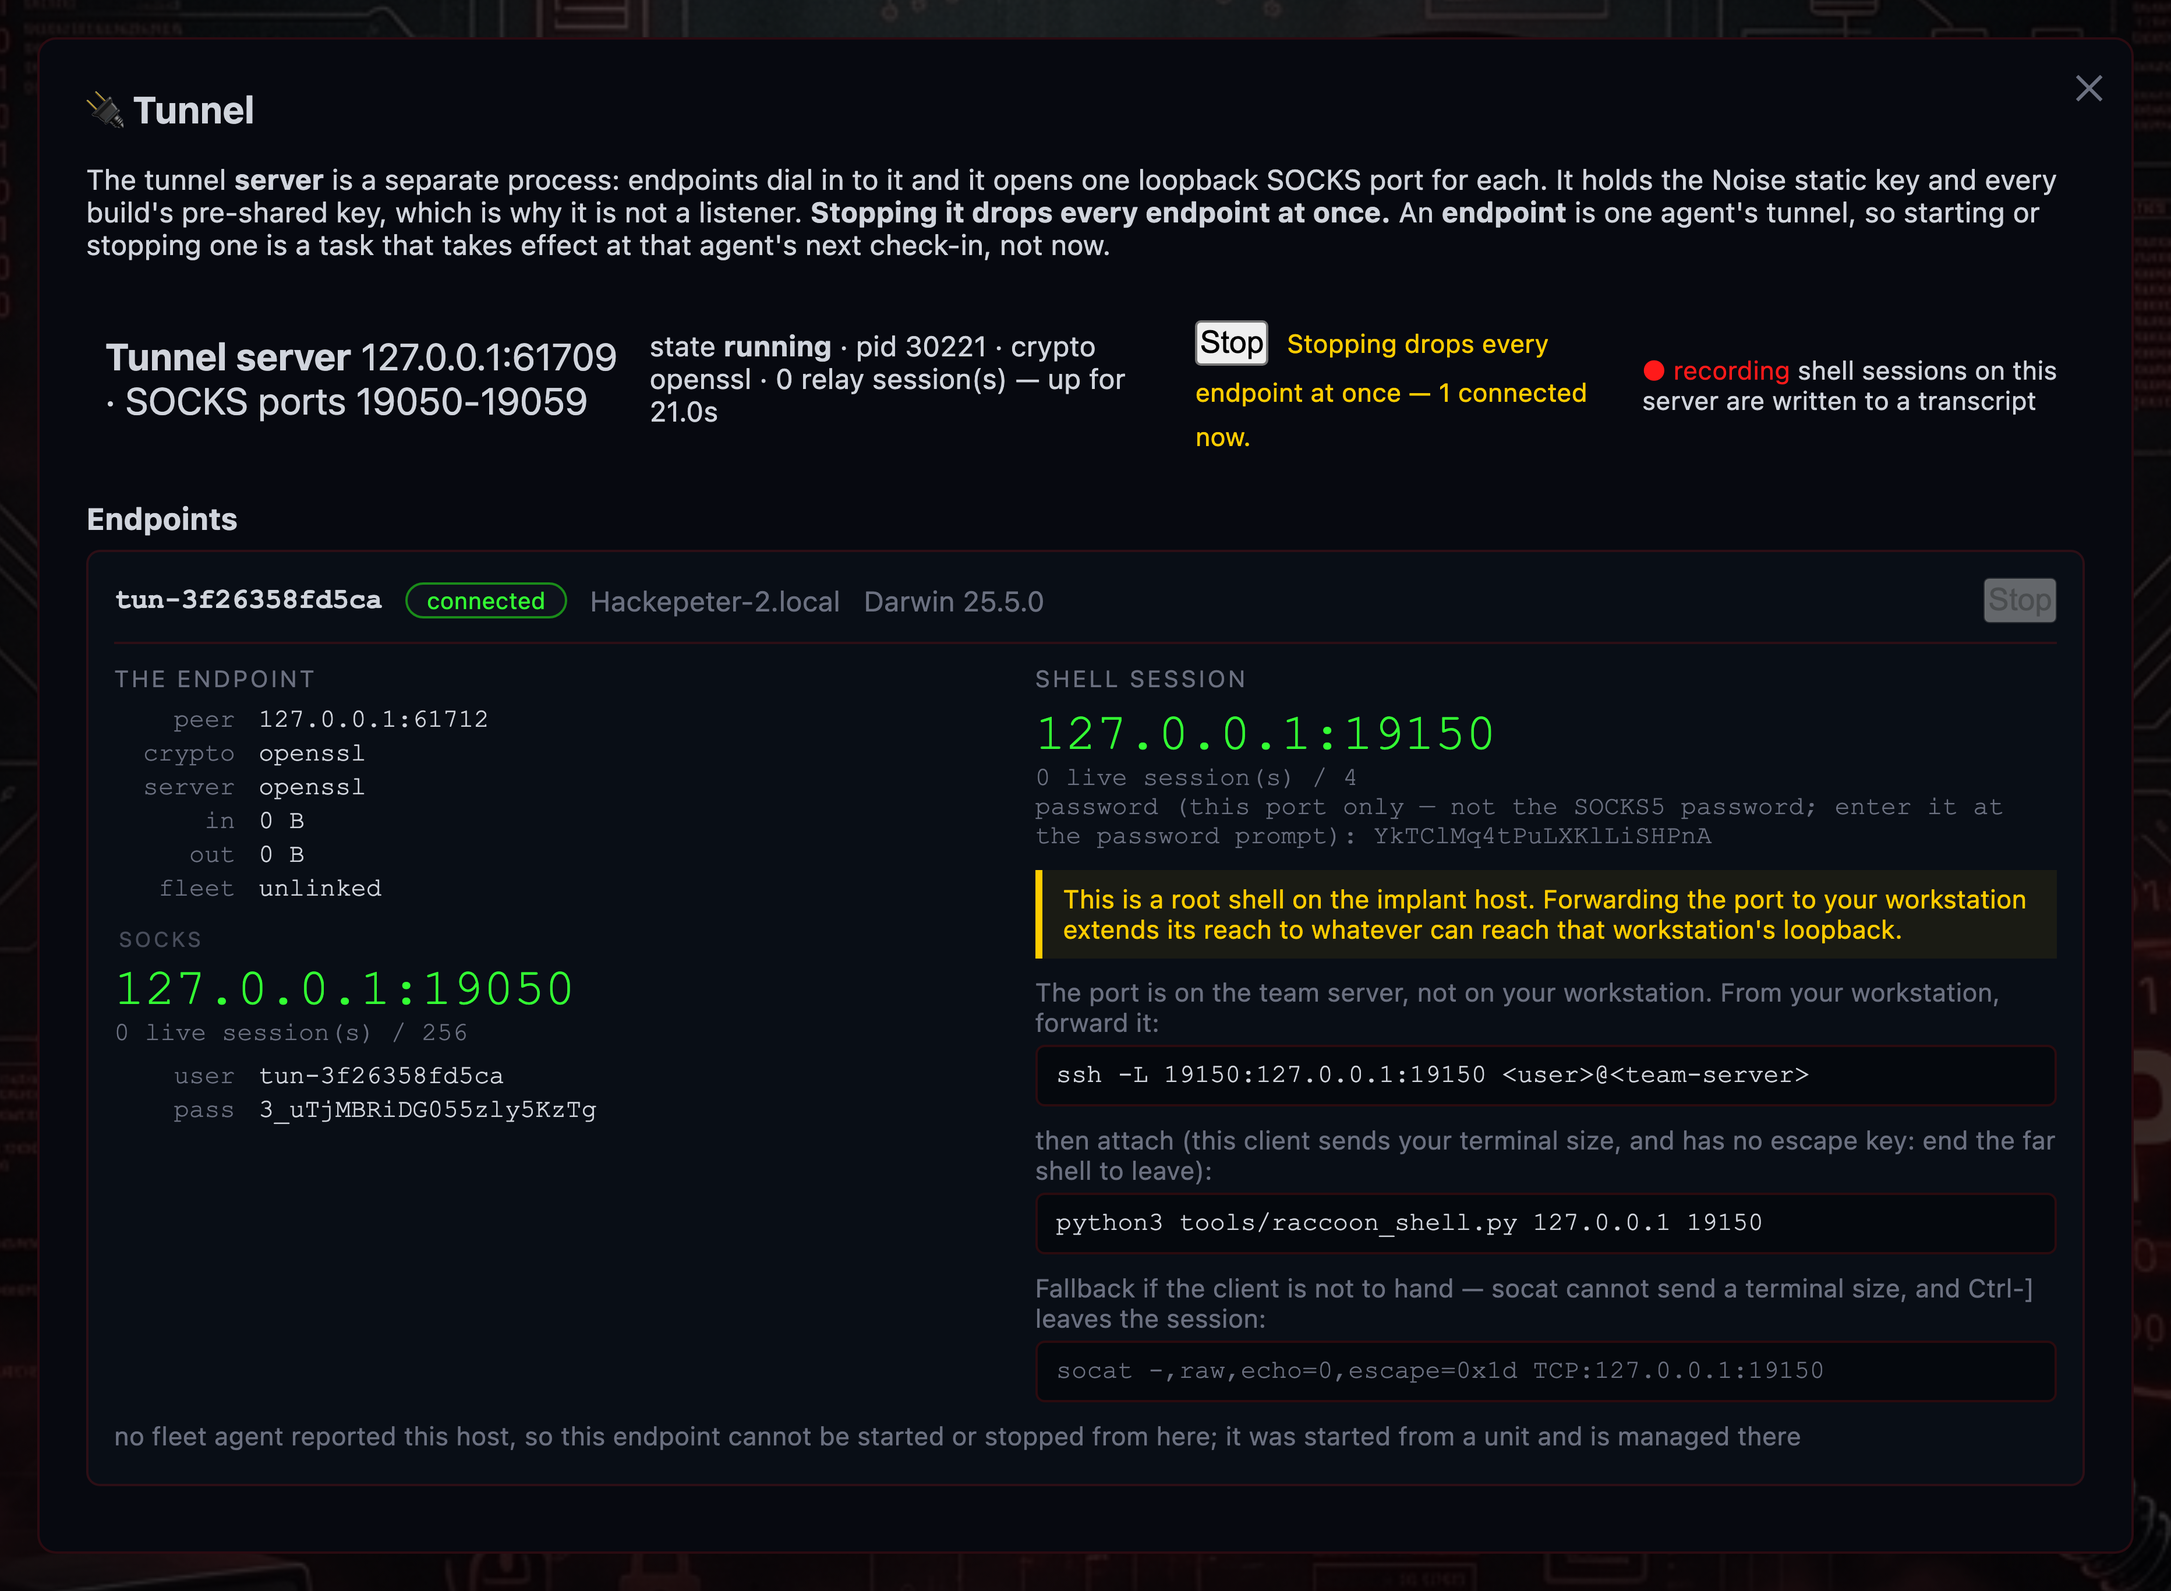
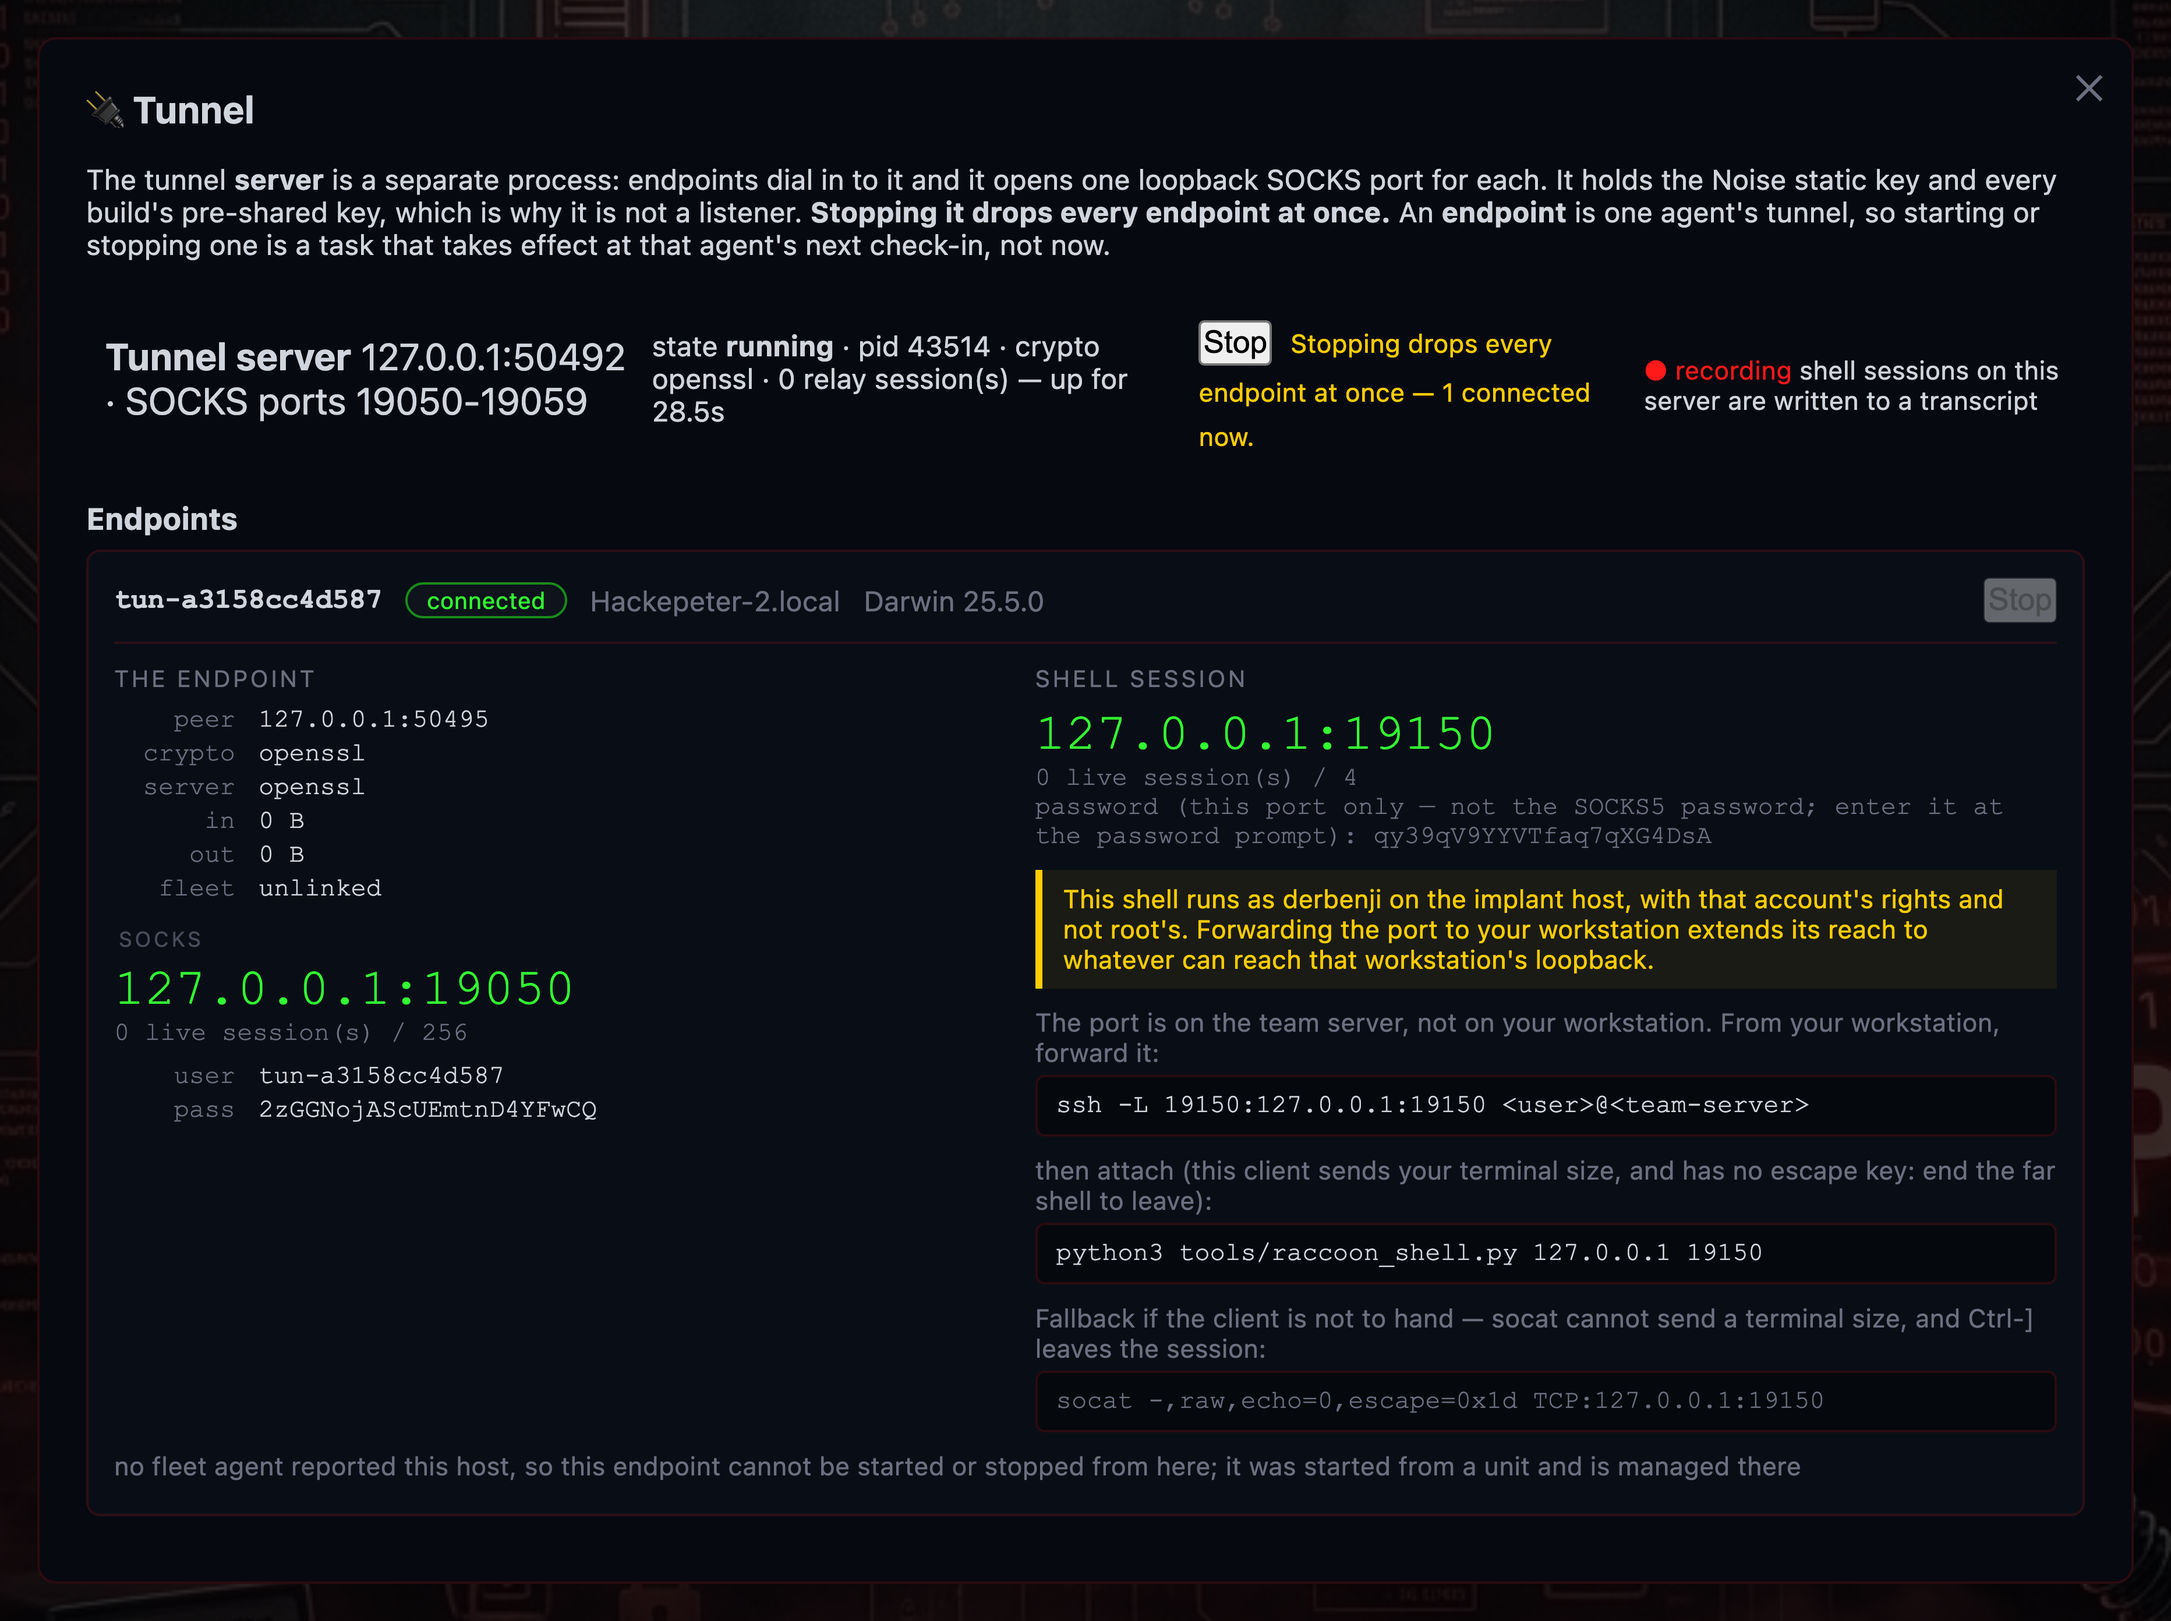
Say which user a shell session runs as, instead of assuming root
The panel stated "This is a root shell on the implant host" for every
row. That is true of an endpoint started from the service unit and false
of a generated build someone ran as themselves -- and nothing on the team
server could tell the two apart, because the HELLO carried hostname, OS,
crypto and features and no user. Photographing the panel is what surfaced
it: the figure said root while the session in the next terminal was
`derbenji`.

So the endpoint reports it, the way it already reports its own hostname
rather than being told. `_process_user` reads the effective uid, because
that is the one a session spawned there would run with, and answers None
on any failure: a HELLO that cannot be built costs the whole tunnel,
while a missing name costs one sentence that now has its own wording.

The warning is chosen rather than asserted -- root keeps the original
sentence, any other account is named and said not to be root, and a build
too old to report it is called unreported. Inventing a value there would
be the overclaim this field removes, so the absence travels as None from
`_text` all the way to the card.

`configs/raccoon.yaml` keeps the worst-case wording on purpose: a config
file is read before any endpoint has said anything.

The figure is retaken, since the old one pictured a claim that no longer
exists. Suite: 3325 OK on macOS.

diff --git a/software/tests/test_tunnel_gui.py b/software/tests/test_tunnel_gui.py
@@ -1621,10 +1621,44 @@ class TestTheTunnelPanel(unittest.TestCase):
         self.assertIn("Ctrl-]", self.body)
         self.assertIn("socat cannot send a terminal size", self.body)
 
-    def test_the_panel_says_the_session_is_a_root_shell_on_the_implant_host(self):
-        self.assertIn("root shell on the implant host", self.body)
-        warning = self.body.index("root shell on the implant host")
-        window = self.body[warning:warning + 300]
+    def test_the_shell_warning_names_the_rights_it_was_told_about(self):
+        """Three cases, because the panel is only allowed to say what it knows.
+
+        A shell session has the endpoint process's own rights. The panel
+        said "root shell" for every row, which is true of an endpoint
+        started from the service unit and false of a generated build
+        someone ran as themselves -- and nothing on the team server could
+        tell the two apart, because the HELLO carried no user. It does
+        now, so the sentence is chosen rather than asserted:
+
+        * `root` -- the original sentence, and now a measured one.
+        * any other account -- named, and said not to be root.
+        * nothing reported, as from an older build -- said to be
+          unreported, which is the one case where a guess would be the
+          overclaim this field removes.
+        """
+        self.assertIn("row.user === 'root'", self.body,
+                      "the warning does not branch on the reported user, so "
+                      "it is still claiming root for every row")
+        self.assertIn("root shell on the implant host", self.body,
+                      "the root case lost the sentence that is true of it")
+        self.assertIn("esc(row.user)", self.body,
+                      "a user from the far end of the tunnel reaches the "
+                      "page unescaped, or is not named at all")
+        self.assertIn("does not report", self.body,
+                      "a build that reports no user is not said to be "
+                      "unreported")
+
+    def test_every_shell_warning_still_warns_about_the_forward(self):
+        # Whichever sentence the branch above picked, the operator has to
+        # be told what forwarding the port costs: that is the half of the
+        # warning which does not depend on who the shell runs as.
+        warn = self.body.index('"pcard-warn"')
+        window = self.body[warn:warn + 1200]
+        for case in ("root shell on the implant host", "does not report"):
+            self.assertIn(case, window,
+                          "%r is not in the same warning block as the "
+                          "forwarding sentence" % case)
         self.assertIn("Forwarding the port", window)
         self.assertIn("loopback", window)
 

diff --git a/software/tests/test_tunnel_server.py b/software/tests/test_tunnel_server.py
@@ -163,10 +163,15 @@ class _CommandPeer(_Peer):
         self._thread = None
 
     def hello(self, identity, implant_id=None, hostname="raccoon-host",
-              os_name="Linux-6.1", features=None):
+              os_name="Linux-6.1", features=None, user=None):
         body = {"identity": identity, "hostname": hostname, "os": os_name}
         if implant_id is not None:
             body["implant_id"] = implant_id
+        # Left out entirely when None, like `features` below: an endpoint
+        # built before the panel needed this sends no `user` key, and a
+        # row that invented one would be the claim this field removes.
+        if user is not None:
+            body["user"] = user
         # Left out entirely when None: an endpoint built before the shell
         # sends no `features` key at all, and that is the case to cover.
         if features is not None:
@@ -366,6 +371,26 @@ class TestRegistration(TunnelServerTestCase):
             document = json.load(handle)
         self.assertEqual(document["ports"]["build-alpha"], row["port"])
         peer.close()
+
+    def test_the_row_carries_the_user_from_the_hello(self):
+        server = self.start_server()
+        self.command_peer(server, "build-alpha", user="root")
+
+        self.assertEqual(self.row(server, "build-alpha")["user"], "root")
+
+    def test_an_endpoint_that_reports_no_user_gets_no_user_invented(self):
+        """An older build says nothing about its user, and must not be read.
+
+        The panel warns an operator about the rights a shell session would
+        have. A default here -- "root", or the empty string rendered as
+        one -- would put that warning on a row nothing had measured, which
+        is the overclaim this field exists to remove. So the absence
+        travels as `None`, and the panel says the build does not report it.
+        """
+        server = self.start_server()
+        self.command_peer(server, "build-alpha")
+
+        self.assertIsNone(self.row(server, "build-alpha")["user"])
 
     def test_the_same_identity_gets_the_same_port_after_a_server_restart(self):
         first = self.start_server()

diff --git a/software/c2/tunnel/server.py b/software/c2/tunnel/server.py
@@ -355,6 +355,10 @@ class _CommandChannel(object):
         self.implant_id = None      # type: Optional[str]
         self.hostname = None        # type: Optional[str]
         self.os_name = None         # type: Optional[str]
+        # The account the endpoint process runs as, which is what a shell
+        # session there would have. `None` from a build that does not
+        # report it: the panel says so rather than assuming root.
+        self.user = None            # type: Optional[str]
         # Which AES backend the *endpoint* has, as its HELLO reported it.
         # Not this process's: `crypto_path()` answers for the server, and
         # the two halves are different hosts with different libcrypto.
@@ -622,6 +626,7 @@ class TunnelServer(object):
                 "linked": agent is not None,
                 "hostname": channel.hostname if channel is not None else None,
                 "os": channel.os_name if channel is not None else None,
+                "user": channel.user if channel is not None else None,
                 "peer": channel.peer if channel is not None else None,
                 "sessions": len(mine),
                 "bytes_in": before[0] + sum(s.sock.bytes_in for s in counted),
@@ -880,6 +885,7 @@ class TunnelServer(object):
         channel = _CommandChannel(identity, conn, noise, peer)
         channel.hostname = _text(body.get("hostname"))
         channel.os_name = _text(body.get("os"))
+        channel.user = _text(body.get("user"))
         channel.implant_id = _text(body.get("implant_id"))
         channel.crypto = _text(body.get("crypto"))
         channel.features = _features(body.get("features"))

diff --git a/software/tests/test_tunnel_endpoint.py b/software/tests/test_tunnel_endpoint.py
@@ -75,6 +75,7 @@ import tempfile
 import threading
 import time
 import traceback
+import pwd
 import unittest
 
 from software.c2 import beacon as beacon_mod
@@ -908,6 +909,30 @@ class TestRegistration(TunnelEndpointTestCase):
         self.assertTrue(status["connected"])
         self.assertEqual(status["egress"], "direct")
         self.assertEqual(status["sessions"], 0)
+
+    def test_the_row_names_the_user_the_endpoint_runs_as(self):
+        """The panel warns about a shell's rights, so it has to know them.
+
+        A shell session has exactly the privileges of the endpoint process
+        that spawned it: root when the endpoint came up from the service
+        unit, and some unprivileged account when a generated build was
+        started by hand. The panel used to state "root shell" for both,
+        which is a claim nothing on the team server could check -- the
+        HELLO carried hostname, OS, crypto and features, and no user.
+
+        So the endpoint reports it, the way it already reports its own
+        hostname rather than being told: from the effective uid, which is
+        what the shell will actually have.
+        """
+        server = self.start_server()
+        self.start_endpoint(self.config_for(server.port))
+
+        row = self.wait_connected(server)
+
+        expected = pwd.getpwuid(os.geteuid()).pw_name
+        self.assertEqual(row["user"], expected,
+                         "the row does not name the user whose rights the "
+                         "shell session would have")
 
     def test_endpoint_sends_the_implant_id_when_the_config_carries_one(self):
         server = self.start_server()

diff --git a/software/c2/beacon.py b/software/c2/beacon.py
@@ -3311,6 +3311,29 @@ class _TunnelChannel(object):
         _shut_socket(self.sock)
 
 
+def _process_user() -> Optional[str]:
+    """The account a shell session spawned here would run as, or None.
+
+    The panel warns an operator about the rights a session carries, and
+    those are this process's: root when the endpoint came up from the
+    service unit, some unprivileged account when a generated build was
+    started by hand. Nothing on the team server can work that out, so the
+    endpoint reports it the way it reports its own hostname.
+
+    The effective uid rather than the real one, because that is the one a
+    session spawned here would run with. `None` on any failure -- a HELLO
+    that cannot be built costs the whole tunnel, and a missing name only
+    costs the panel a sentence it already has a wording for.
+    """
+    try:
+        if platform.system() != "Windows":
+            import pwd
+            return pwd.getpwuid(os.geteuid()).pw_name
+        return os.environ.get("USERNAME") or None
+    except Exception:
+        return None
+
+
 class TunnelEndpoint(object):
     """The far end of the tunnel: one command channel, one relay per request.
 
@@ -3599,6 +3622,7 @@ class TunnelEndpoint(object):
         body = {"identity": self.identity,
                 "hostname": platform.node(),
                 "os": "%s %s" % (platform.system(), platform.release()),
+                "user": _process_user(),
                 "crypto": self._crypto_path(),
                 "features": list(TUNNEL_FEATURES)}
         if self.implant_id:

diff --git a/software/c2/server.py b/software/c2/server.py
@@ -7407,7 +7407,18 @@ async function drawTunnel(panel){
       + 'enter it at the password prompt): ' + esc(row.shell_password)
       + '</small></div>'
       + '<div class="pcard-warn">'
-      + 'This is a root shell on the implant host. Forwarding the port to '
+      // A session has the endpoint process's rights, and this panel used
+      // to state root for every row. It is a HELLO field now, so the
+      // sentence is chosen: the unreported case is an older build, and
+      // guessing there is the overclaim the field removes.
+      + (row.user === 'root'
+           ? 'This is a root shell on the implant host.'
+           : row.user
+               ? 'This shell runs as ' + esc(row.user) + ' on the implant '
+                 + 'host, with that account\'s rights and not root\'s.'
+               : 'This shell has the endpoint\'s own rights on the implant '
+                 + 'host; this build does not report which user that is.')
+      + ' Forwarding the port to '
       + 'your workstation extends its reach to whatever can reach that '
       + 'workstation\'s loopback.</div>'
       + cmd('The port is on the team server, not on your workstation. From '

diff --git a/docs/TUNNEL.md b/docs/TUNNEL.md
@@ -265,6 +265,14 @@ root shell on the implant host to whoever holds its password. It is a
 separate secret from the SOCKS credential, minted per identity: a SOCKS
 password handed out for a pivot does not also open this.
 
+**Which user that is, the endpoint reports.** The `HELLO` carries the
+account from the endpoint's effective uid, beside the hostname and OS it
+already reported, and the card names it: `root` gets the sentence above,
+any other account is named and said not to be root, and a build too old
+to report it is called **unreported** rather than assumed. The warning in
+`configs/raccoon.yaml` still names the worst case, because a config file
+is read before any endpoint has said anything.
+
 ### The two switches, both server-side
 
 Nothing opens a root shell port because a config file on the implant
